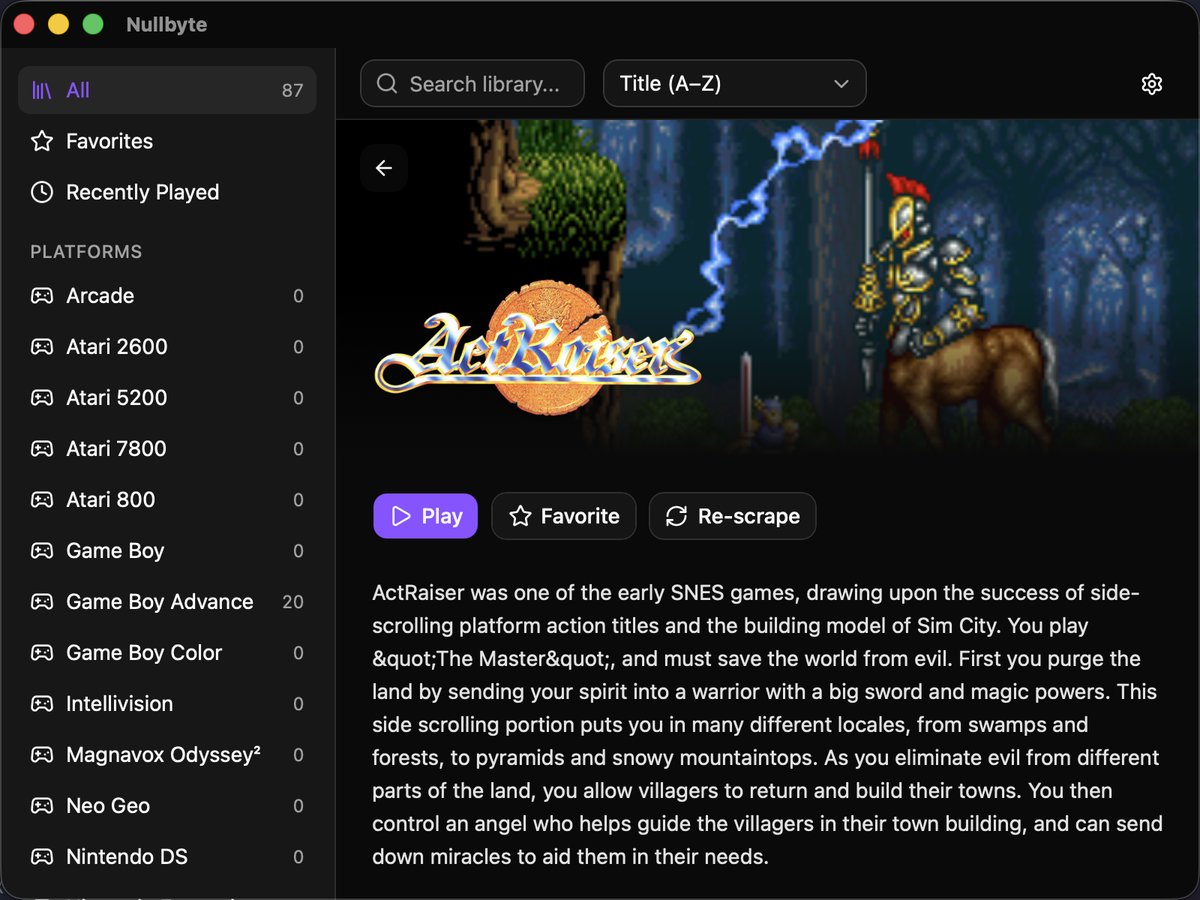
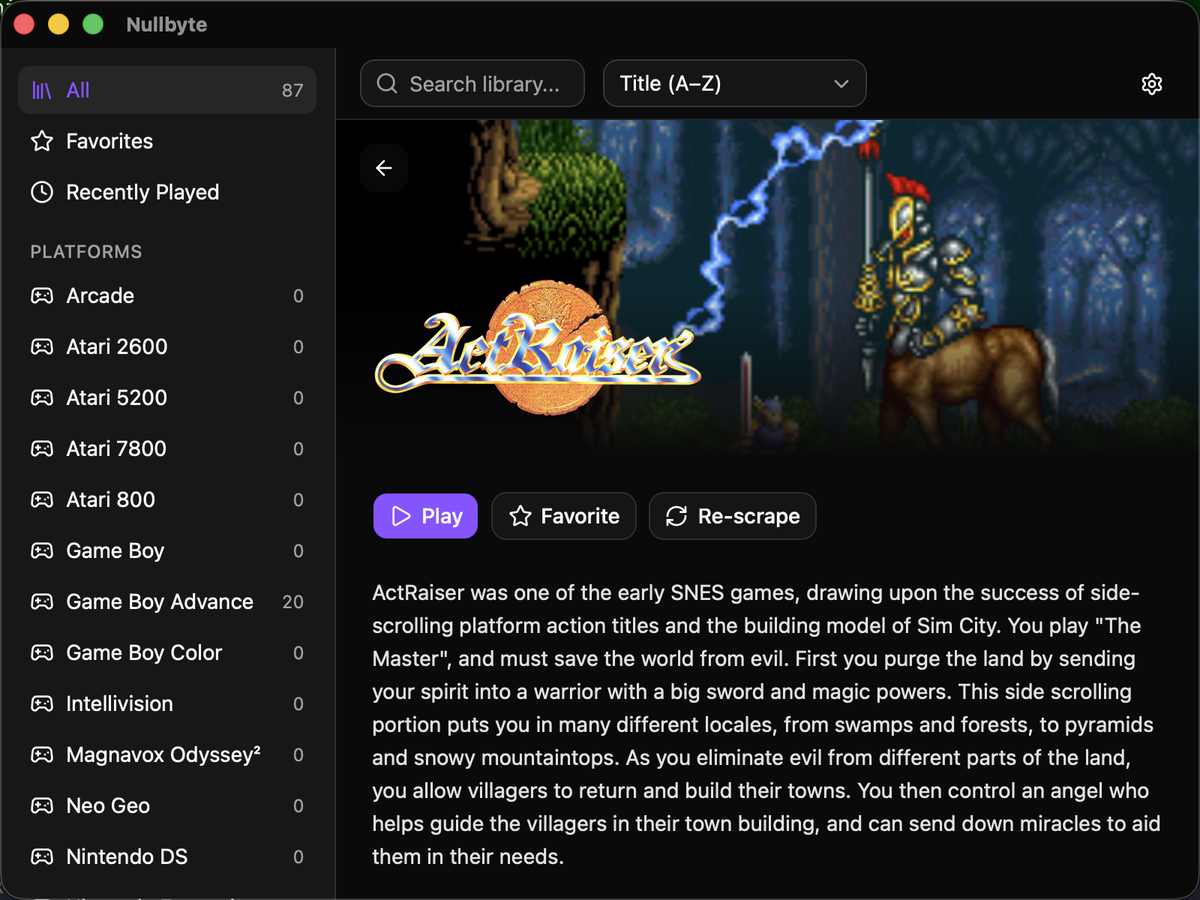
docs: fix HTML-entity bug in README screenshot, record P9.6 status
The first game-detail screenshot was captured before the
unescape_html_entities fix landed and still showed &quot;The Master&quot;
literally. Cleaned the 14 already-affected rows in the local dev DB
directly (the scrape cache stores post-extraction data, so a plain
re-scrape click just replayed the same stale escaped text - confirmed
this by reading the cache design doc, not guessing) and recaptured the
screenshot for real.

Records P9.6's actual state in MVP.md: LICENSE/README screenshots/v0.1.0
tag are done, but the real walkthrough of all 7 MVP.md §1.4 success
criteria on both platforms is deferred to a future session per the
user - most of §1.4 needs genuine hands-on play (hotkey save states,
SRAM, switching between platforms, hover video, a truly clean install)
that can't be scripted. Notes what's already effectively covered by
this session's other real testing (P9.4's 30-minute SNES session)
versus what's still fully open.

Changed region(s): [[0.3083, 0.6844, 0.9867, 0.9644], [0.9867, 0.0, 1.0, 0.0311], [0.0, 0.0, 0.0308, 0.0311]]

diff --git a/MVP.md b/MVP.md
@@ -2741,10 +2741,46 @@ subagent'u prieš rašant kodą, 2026-08-26):**
 - Sukurk `LICENSE` (MIT)
 - Tag `v0.1.0`
 
+> **Pastaba (2026-08-27):** README screenshot'ai (realūs, iš veikiančios app'os su 87 realiais
+> žaidimais), `LICENSE` (MIT, jau egzistavo) ir `v0.1.0` tag'as (pastumtas P9.5 metu,
+> `.dmg`/`.deb`/`.AppImage` realiai patikrinti CI) — PADARYTA. Pakeliui rastas ir ištaisytas
+> realus bug'as: ScreenScraper aprašymai UI rodė neišvyniotus HTML entity'us (pvz. `&quot;`
+> vietoj `"`) — žr. `screenscraper.rs::unescape_html_entities`.
+>
+> **§1.4 septynių kriterijų statusas** (kiekvienas — „veikia be crash'ų" scenarijus abiejose
+> platformose):
+> 1. Švari instaliacija → 100+ ROM'ų skenavimas < 60s → teisingos platformos — NEpatikrinta
+>    ŠVARIU pavidalu (esama vietinė DB turi 87 realiai suskenuotų/scrape'intų žaidimų —
+>    IŠTRYNIMAS testui sunaikintų šiuos duomenis; vartotojo nurodymas: PIRMA padaryti
+>    atsarginę `nullbyte.db`/`media/` kopiją, TADA trinti ir testuoti, kai grįšim prie šito)
+> 2. Scrape → viršeliai/video atsisiunčia → hover groja gameplay video — kodas parašytas
+>    (P6.4 realiai scrape'ino 30-90 žaidimų viršelius), bet HOVER VIDEO PREVIEW savaime
+>    (P7.3) niekada nepatikrinta su realiu video failu, tik su placeholder duomenimis
+> 3. SNES: vaizdas be iškraipymų, garsas be traškesių 10+ min, gamepad be delsos —
+>    **DAUGIAUSIA JAU PADENGTA**: P9.4 30 min realaus žaidimo testas (su TIKRAI veikiančiu
+>    garsu, po `ControlFlow` fix'o) šį kriterijų iš esmės patvirtino macOS; gamepad delsa
+>    atskirai NEpakartota ŠIOS sesijos P9.x darbų metu (paskutinį kartą tikrinta P4.1/P4.2)
+> 4. Save state slot 1 → uždaryk → paleisk → load → tęsk iš to paties taško — TIK vienetų
+>    testas (sintetinis `CoreHandle` „naujas procesas"), NIEKADA nepatikrinta per REALŲ
+>    F5/F8 hotkey paspaudimą gyvame žaidime
+> 5. RPG SRAM: žaisk 5 min → uždaryk → paleisk → in-game save veikia — TAS PATS apribojimas
+>    kaip #4, tik vienetų testas
+> 6. 4 skirtingų platformų žaidimai iš eilės per REALŲ UI (Play → uždaryk → Play kitą) —
+>    NEpatikrinta; P9.2 automatinis testas cikliojo 5 core'us, bet SINTETIŠKAI, vienoje
+>    gijoje, ne per tikrą `start_game`/UI srautą
+> 7. Tas pats macOS IR Linux — macOS PLAČIAI patvirtinta visą šią sesiją; Linux TIK IŠ
+>    DALIES (omarchy: video/audio/klaviatūra per `nullbyte-emu` TIESIOGIAI patvirtinta
+>    P4.1/P4.2 metu, bet NIEKADA per PILNĄ `nullbyte-app` UI srautą — `pnpm tauri dev`
+>    Linux'e apskritai nepaleista šioje sesijoje)
+>
+> **Vartotojo sprendimas (2026-08-27):** likusių 5 punktų (2, 3-gamepad dalis, 4, 5, 6) IR
+> Linux #7 dalies realus patikrinimas ATIDĖTAS kitai sesijai — reikalauja realaus,
+> ilgo, žingsnis-po-žingsnio žaidimo vartotojo rankomis abiejose platformose.
+
 **Acceptance:**
 - [ ] Visi 7 kriterijai ✅ macOS
 - [ ] Visi 7 kriterijai ✅ Linux
-- [ ] Release build'ai veikia
+- [x] Release build'ai veikia — patvirtinta P9.5 metu (realus CI, abu darbai sėkmingi)
 
 > **Milestone M5: MVP baigtas.**
 
